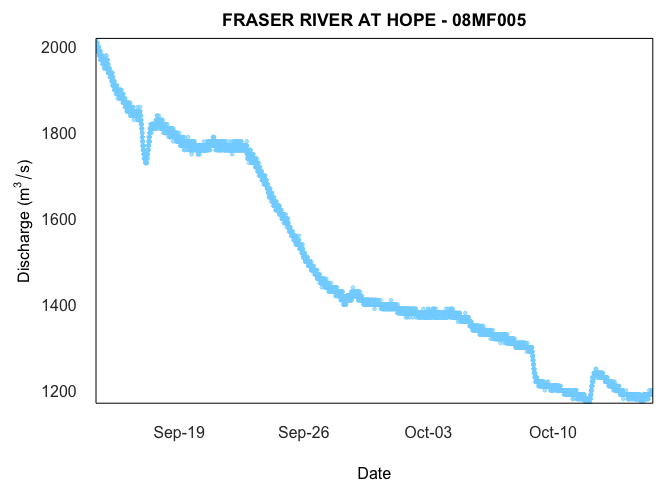
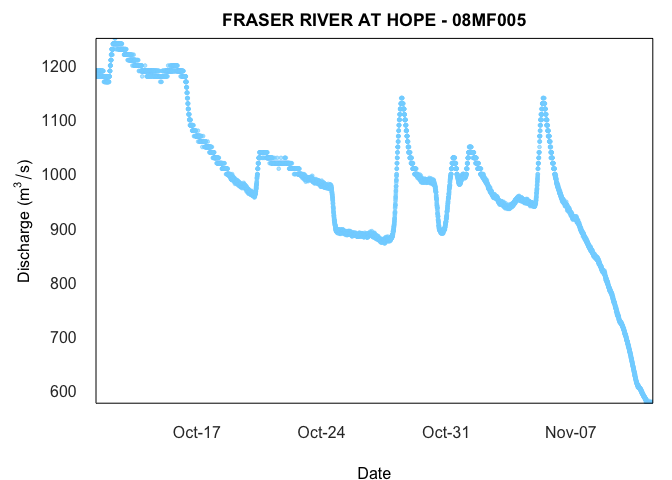
some release clean up

diff --git a/README.md b/README.md
@@ -16,10 +16,10 @@ Downloads](https://cranlogs.r-pkg.org/badges/tidyhydat?color=brightgreen)](https
 [![cran
 checks](https://cranchecks.info/badges/worst/tidyhydat)](https://cran.r-project.org/web/checks/check_results_tidyhydat.html)
 [![r-universe](https://ropensci.r-universe.dev/badges/tidyhydat)](https://ropensci.r-universe.dev/ui#builds)
-
 [![](http://badges.ropensci.org/152_status.svg)](https://github.com/ropensci/software-review/issues/152)
 [![DOI](http://joss.theoj.org/papers/10.21105/joss.00511/status.svg)](https://doi.org/10.21105/joss.00511)
 [![DOI](https://zenodo.org/badge/100978874.svg)](https://zenodo.org/badge/latestdoi/100978874)
+[![R-CMD-check](https://github.com/ropensci/tidyhydat/actions/workflows/R-CMD-check.yaml/badge.svg)](https://github.com/ropensci/tidyhydat/actions/workflows/R-CMD-check.yaml)
 <!-- badges: end -->
 
 ## What does `tidyhydat` do?
@@ -86,21 +86,21 @@ the same conventions discussed above. Using `realtime_dd()` we can
 easily select specific stations by supplying a station of interest:
 
     realtime_dd(station_number = "08MF005")
-    #>   Queried on: 2022-10-15 15:31:53 (UTC)
-    #>   Date range: 2022-09-14 to 2022-10-15 
+    #>   Queried on: 2022-11-11 15:18:39 (UTC)
+    #>   Date range: 2022-10-11 to 2022-11-11 
     #> # A tibble: 18,006 × 8
     #>    STATION_NUMBER PROV_TE…¹ Date                Param…² Value Grade Symbol Code 
     #>    <chr>          <chr>     <dttm>              <chr>   <dbl> <chr> <chr>  <chr>
-    #>  1 08MF005        BC        2022-09-14 08:00:00 Flow     2010 <NA>  <NA>   1    
-    #>  2 08MF005        BC        2022-09-14 08:05:00 Flow     2010 <NA>  <NA>   1    
-    #>  3 08MF005        BC        2022-09-14 08:10:00 Flow     2000 <NA>  <NA>   1    
-    #>  4 08MF005        BC        2022-09-14 08:15:00 Flow     2010 <NA>  <NA>   1    
-    #>  5 08MF005        BC        2022-09-14 08:20:00 Flow     2000 <NA>  <NA>   1    
-    #>  6 08MF005        BC        2022-09-14 08:25:00 Flow     2000 <NA>  <NA>   1    
-    #>  7 08MF005        BC        2022-09-14 08:30:00 Flow     2000 <NA>  <NA>   1    
-    #>  8 08MF005        BC        2022-09-14 08:35:00 Flow     2010 <NA>  <NA>   1    
-    #>  9 08MF005        BC        2022-09-14 08:40:00 Flow     2010 <NA>  <NA>   1    
-    #> 10 08MF005        BC        2022-09-14 08:45:00 Flow     2000 <NA>  <NA>   1    
+    #>  1 08MF005        BC        2022-10-11 08:00:00 Flow     1190 <NA>  <NA>   1    
+    #>  2 08MF005        BC        2022-10-11 08:05:00 Flow     1190 <NA>  <NA>   1    
+    #>  3 08MF005        BC        2022-10-11 08:10:00 Flow     1190 <NA>  <NA>   1    
+    #>  4 08MF005        BC        2022-10-11 08:15:00 Flow     1190 <NA>  <NA>   1    
+    #>  5 08MF005        BC        2022-10-11 08:20:00 Flow     1190 <NA>  <NA>   1    
+    #>  6 08MF005        BC        2022-10-11 08:25:00 Flow     1190 <NA>  <NA>   1    
+    #>  7 08MF005        BC        2022-10-11 08:30:00 Flow     1190 <NA>  <NA>   1    
+    #>  8 08MF005        BC        2022-10-11 08:35:00 Flow     1180 <NA>  <NA>   1    
+    #>  9 08MF005        BC        2022-10-11 08:40:00 Flow     1190 <NA>  <NA>   1    
+    #> 10 08MF005        BC        2022-10-11 08:45:00 Flow     1190 <NA>  <NA>   1    
     #> # … with 17,996 more rows, and abbreviated variable names ¹PROV_TERR_STATE_LOC,
     #> #   ²Parameter
 

diff --git a/cran-comments.md b/cran-comments.md
@@ -1,3 +1,28 @@
+tidyhydat 0.5.7
+=========================
+
+There were zero WARNINGS and zero ERRORS.
+
+## NEWS
+- new `hy_remote` function which looks to see what version is available from ECCC (#183)
+- Improved logic to download HYDAT even if there is some clutter present (@gdelaplante #180)
+- Updated to work with coming changes to dbplyr (#179)
+- Use testthat 3rd edition and update a bunch of tests
+- Make tinyhydat even tinier to remove R CMD check note
+
+
+## Test environments
+* win-builder (via `devtools::check_win_devel()` and `devtools::check_win_release()`)
+* local macOS, R 4.2.1 (via R CMD check --as-cran)
+* ubuntu-20.04, r: 'release' (github actions)
+* ubuntu-20.04, r: 'devel' (github actions)
+* macOS,        r: 'release' (github actions)
+* windows,      r: 'release' (github actions)
+* Fedora Linux, R-devel, clang, gfortran - r-hub
+* Debian Linux, R-release, GCC (debian-gcc-release) - r-hub
+* Windows Server 2008 R2 SP1, R-devel, 32/64 bit - r-hub
+
+
 tidyhydat 0.5.6
 =========================
 

diff --git a/release_process.md b/release_process.md
@@ -42,6 +42,11 @@ R CMD build tidyhydat
 R CMD check tidyhydat_0.5.1.tar.gz --as-cran ## or whatever the package name is
 ```
 
+## revedep check
+```
+revdepcheck::revdep_check(num_workers = 4)
+```
+
 ## Documentation
 - Update NEWS
 - Update cran-comments
